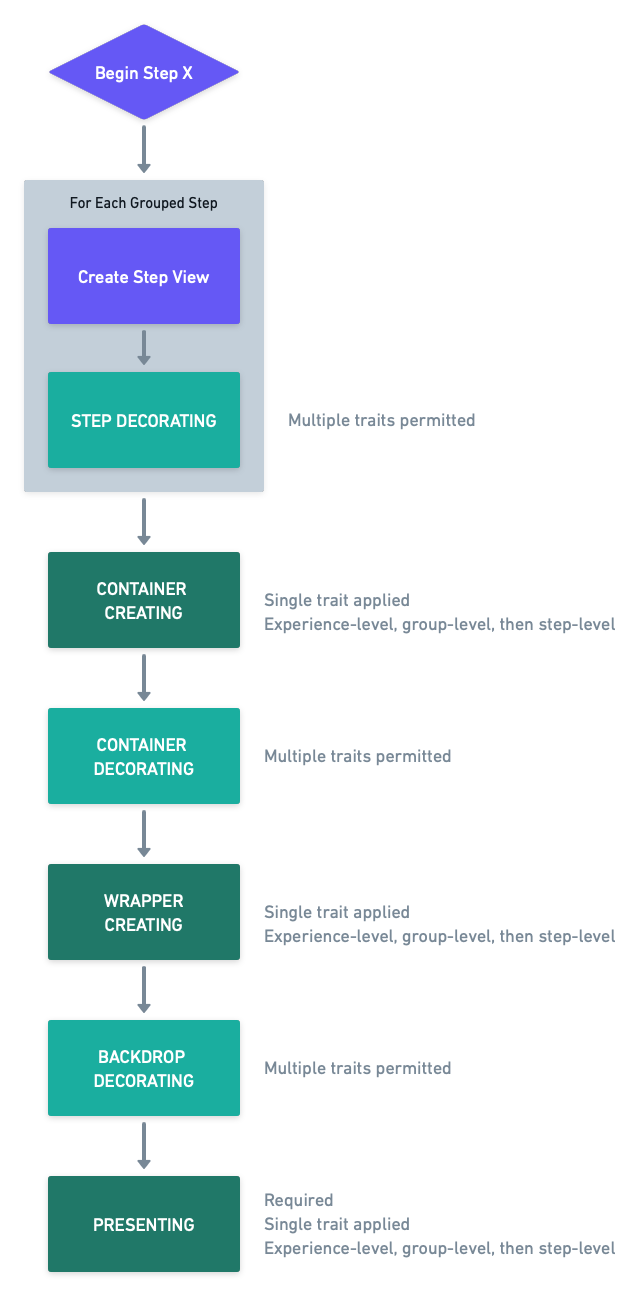
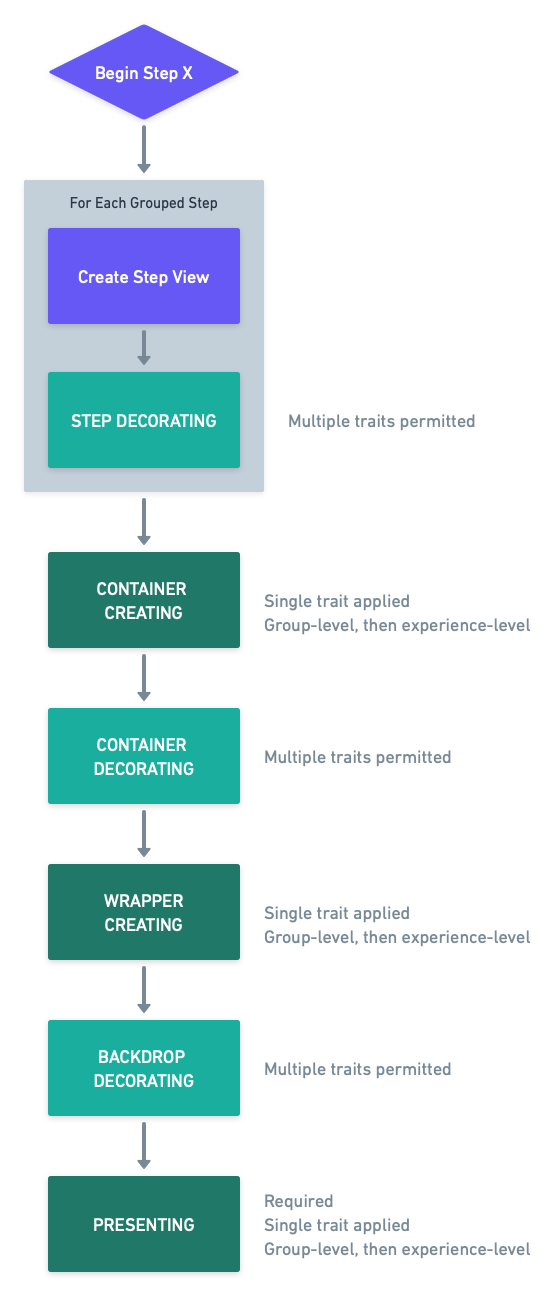
📝 Update trait documentation to explain updated composition rules

diff --git a/Sources/AppcuesKit/AppcuesKit.docc/Traits.md b/Sources/AppcuesKit/AppcuesKit.docc/Traits.md
@@ -117,7 +117,7 @@ Trait capabilities are applied in a defined sequence, and a trait with multiple 
 
 ![Begin Step X -> Create Step View -> Step Decorating -> Container Creating -> Container Decorating -> Wrapper Creating -> Backdrop Decorating -> Presenting](trait-flow.png)
 
-> A trait with multiple capabilities may, in certain circumstances, not have all its capabilities applied. A ``BackdropDecoratingTrait`` will not be applied if no ``WrapperCreatingTrait`` is present. Additionally, single trait capabilities (i.e. ``ContainerCreatingTrait``, ``WrapperCreatingTrait``, and ``PresentingTrait``) will ignore all but the first trait model providing the capabilitity. The order of precedence is experience-level traits and then step-level traits, in their order in the experience object. 
+> A trait with multiple capabilities may, in certain circumstances, not have all its capabilities applied. A ``BackdropDecoratingTrait`` will not be applied if no ``WrapperCreatingTrait`` is present. Additionally, single trait capabilities (i.e. ``ContainerCreatingTrait``, ``WrapperCreatingTrait``, and ``PresentingTrait``) will ignore all but the first trait model in the most specific context that provides thes capability. Additionally, ``ContainerCreatingTrait``, ``WrapperCreatingTrait``, and ``PresentingTrait`` capabilities provided at the step level within a group are ignored.
 
 ## Error Handling
 
